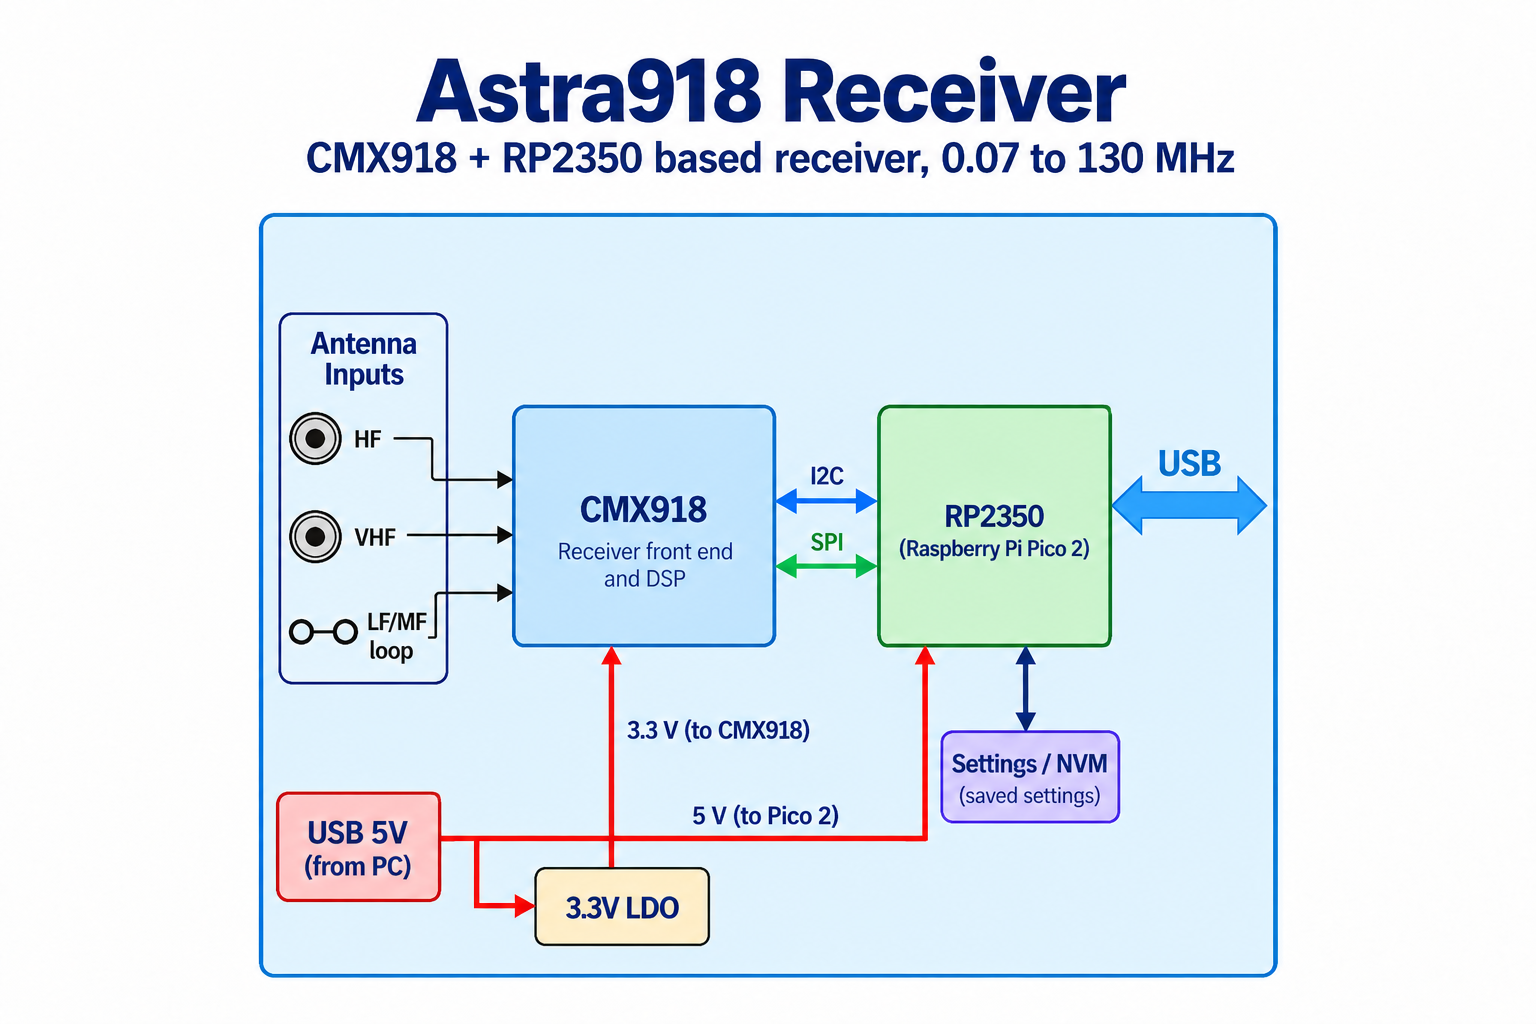
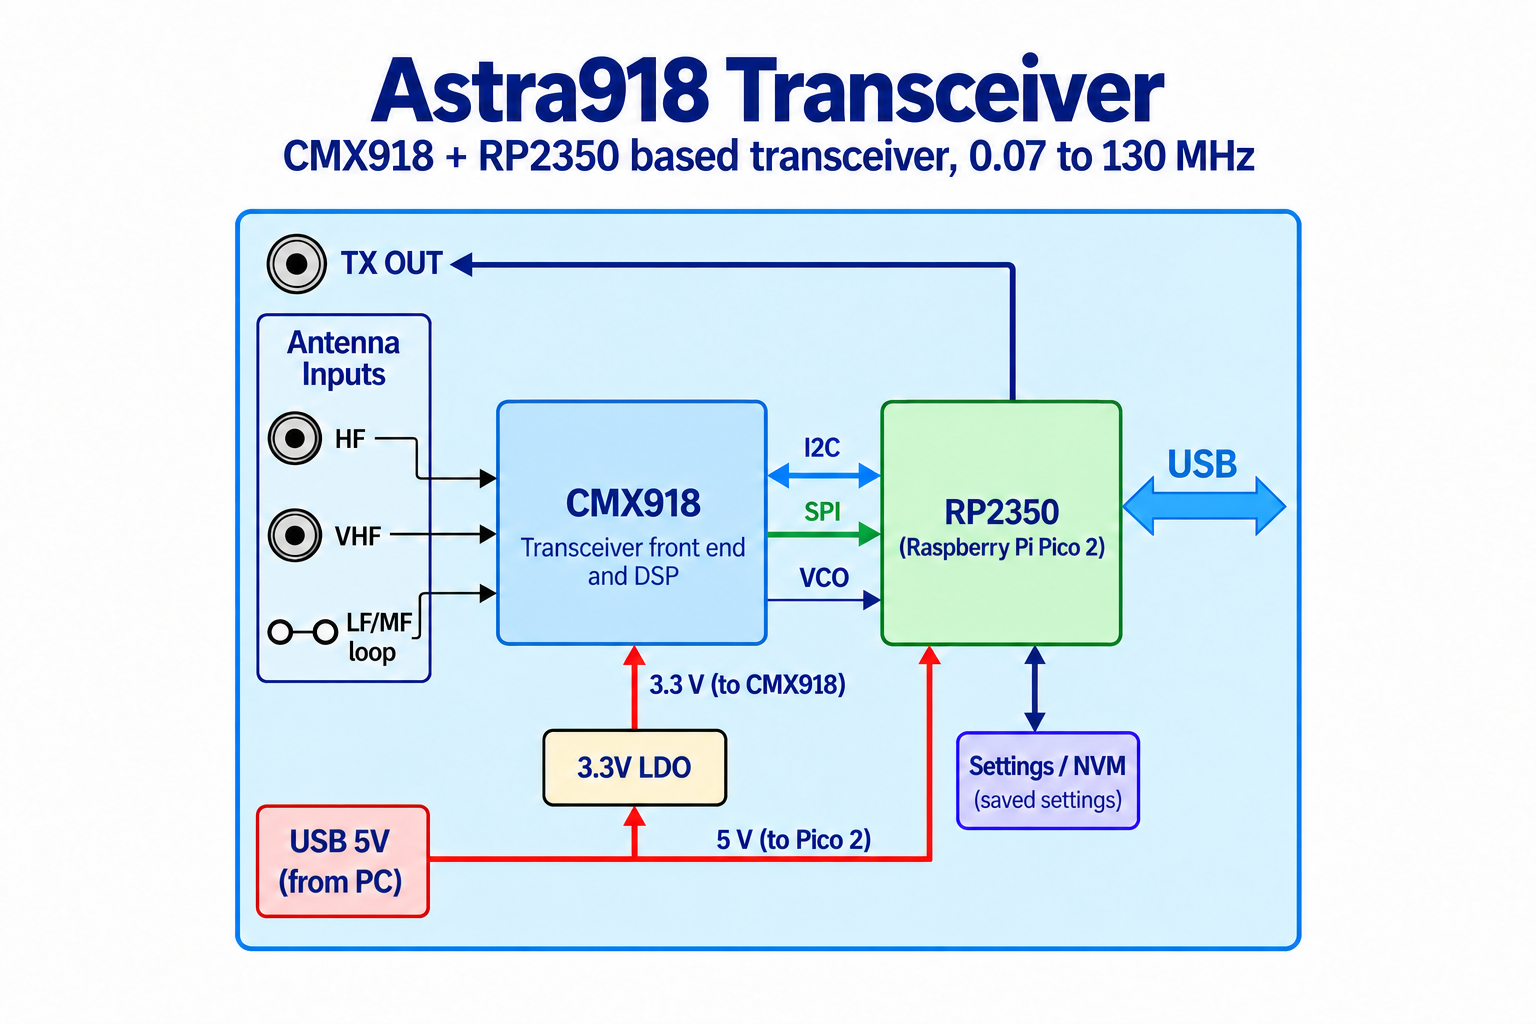
Describe Astra918 as a transceiver and document complete wiring

Changed region(s): [[0.125, 0.0312, 0.875, 0.9688]]

diff --git a/README.md b/README.md
@@ -1,14 +1,16 @@
-# Astra918
+# Astra918 transceiver
 
-RP2350 transceiver firmware combining CMX918 wideband I/Q with USB/LSB audio
-for WSJT-X. One USB connection exposes 12 kHz mono recording and playback,
+CMX918 + RP2350 (Raspberry Pi Pico 2) SDR transceiver firmware with wideband
+I/Q reception and audio-driven single-tone FSK transmission for applications
+such as WSJT-X. One USB connection exposes 12 kHz mono recording and playback,
 a Kenwood-style CAT serial port, and 120 ksps signed 16-bit complex samples.
 Use WSJT-X alongside either the SDR++ source or the Rust controller.
 
-Hardware and software connections for the project are discussed in the
-[EEVblog forum thread](https://www.eevblog.com/forum/rf-microwave/astra918-cmx918rp2350-based-receiver-0-07-to-130-mhz/).
+The [connection table](docs/TRX.md#connections) describes the CMX918/DRM-1000
+and Pico 2 wiring for reception and transmission. It matches the GPIO assignments
+in the [EEVblog hardware post](https://www.eevblog.com/forum/rf-microwave/astra918-cmx918rp2350-based-receiver-0-07-to-130-mhz/msg6368579/#msg6368579).
 
-![Astra918 receiver block diagram](images/astra918diagram.png)
+![Astra918 transceiver block diagram](images/astra918diagram.png)
 
 Keep these independent repositories adjacent:
 
@@ -17,8 +19,8 @@ astra918sdr/          firmware, shared state/DSP, simulator, CLI
 astra918sdr-gui/      Rust light-theme controls/status GUI
 ```
 
-The RP2350A firmware and both Linux applications have been tested with the
-physical receiver: on-air FT8, simultaneous SDR++/WSJT-X operation, bidirectional
+Receive-mode hardware checks with RP2350A firmware and both Linux applications
+cover on-air FT8 reception, simultaneous SDR++/WSJT-X operation, bidirectional
 tuning, controls, I/Q stall isolation, Save and incomplete-record recovery.
 Native Windows/macOS hardware checks remain pending. No frequency-generator
 tests are part of this project's acceptance procedure.
@@ -32,7 +34,7 @@ and offset +10,000 place the spectrum center at 14,064,000. CAT tuning to
 
 SDR++ Radio VFOs control local listening independently. Moving a VFO inside the
 waterfall leaves firmware audio untouched. Moving the waterfall center retunes
-the receiver and CAT dial while preserving the firmware audio offset. The GUI
+the transceiver and CAT dial while preserving the firmware audio offset. The GUI
 exposes this same spectrum-center tuning. Both applications' audio offset controls
 move the firmware channel and CAT dial inside the fixed RF spectrum using
 command 38. The complete USB/LSB passband must remain within that spectrum.
@@ -42,14 +44,14 @@ This center-based application update was compiled on Linux; runtime and hardware
 tests were not rerun, as requested. Earlier hardware reports describe the
 previous application tuning behavior.
 
-The receiver is authoritative. Clients read its current state when connecting;
+The transceiver is authoritative. Clients read its current state when connecting;
 they never restore an old frequency automatically. The entire USB/LSB audio
 passband must fit inside ±59.5 kHz. The 120 ksps spectrum has transition-band
 roll-off near its edges; this is not a promise of a flat 120 kHz RF passband.
-RF tuning limits are 70 kHz–130 MHz, subject to hardware qualification.
+Receive RF tuning limits are 70 kHz–130 MHz, subject to hardware qualification.
 
 Startup without saved settings is 14.2 MHz, USB, zero offset, 100–3500 Hz audio,
-AUTO input, RF/IF automatic gain. **Save to receiver** persists all current
+AUTO input, RF/IF automatic gain. **Save to transceiver** persists all current
 settings, including dial and offset. Ordinary edits never write flash. Saving
 briefly pauses reception; two alternating CRC-protected slots retain the older
 valid configuration if a write is interrupted.
@@ -58,7 +60,7 @@ valid configuration if a write is interrupted.
 
 Select Astra918's 12 kHz mono playback device in WSJT-X. Firmware tracks the
 audio tone and transmits at CAT dial plus the tone in USB or minus it in LSB.
-Enable transmit defaults on. The GUI exposes the RMS threshold, separate audio
+Enable transmit defaults on. The GUI exposes **Audio trigger level**, separate audio
 key/unkey delays, a 50 ms TX/RX relay delay and TX output configuration.
 Explicit Save persists these choices alongside the receiver and I/Q settings.
 
@@ -75,10 +77,10 @@ The combined integration has offline validation and RP2350A/B build coverage.
 Hardware qualification for the combined image is pending.
 The GUI's confirmed **Factory reset…** action erases both saved-settings slots
 and immediately restores the defaults above. It does not save a new record;
-**Save to receiver** is needed to persist later edits. The GUI keeps I/Q
+**Save to transceiver** is needed to persist later edits. The GUI keeps I/Q
 compensation controls visible but disables them if connected firmware does not
 advertise support. Flash matching firmware to enable them. The reset command was
-checked in the simulator; the destructive erase was not invoked on a receiver.
+checked in the simulator; the destructive erase was not invoked on a transceiver.
 
 ## I/Q compensation
 
@@ -111,7 +113,7 @@ The result appears in the status; the offline simulator reports calibration
 unavailable because it has no CMX918 pilot. This one-shot action is not saved.
 With automatic large-retune calibration off, a later RF reconfiguration clears
 the one-shot correction; run it again at the new tune if needed.
-The checkbox controls apply immediately; only **Save to receiver** writes them
+The checkbox controls apply immediately; only **Save to transceiver** writes them
 to flash. Calibration results themselves are not saved. On the connected RP2350A
 test board at 3.5 and 14.074 MHz, the manual command reported status 1 (complete),
 applied the CMX918's measured correction coefficients, turned off the pilot,
@@ -162,9 +164,9 @@ the default audio device. Its waterfall covers the generated 1500 Hz signal.
 
 Stop I/Q with the application's Play/Stop control, or `astra918ctl stop`,
 before reading or writing a register. The vendor interface permits one owner:
-close any SDR application holding the receiver before using these commands.
+close any SDR application holding the transceiver before using these commands.
 CAT and USB audio remain available while I/Q is stopped. With one connected
-receiver, the CLI and Python helpers select it automatically; use `--serial`
+transceiver, the CLI and Python helpers select it automatically; use `--serial`
 if several are connected.
 
 ```sh
@@ -183,7 +185,7 @@ an already built binary. Use `--simulator 127.0.0.1:7350` for offline practice.
 For CMX918 register `$07`, bit 1 enables the 19.2 MHz output on pin 8; bit 0
 selects crystal (`0`) or external TCXO (`1`). A raw write replaces the whole
 register byte, does not update saved settings, and may be overwritten by a
-later receiver reconfiguration. Pin 9 is not connected.
+later receiver reconfiguration. CMX918 pin 9 is unused in the documented wiring.
 
 ## Firmware images
 
@@ -215,7 +217,7 @@ must match their linker, clock and pin configuration.
 Pushing a `v*` tag builds and publishes this file. Other builds remain
 available as a ZIP artifact of the **Firmware UF2** workflow in GitHub Actions.
 
-## WSJT-X with the receiver
+## WSJT-X with the transceiver
 
 Select **Kenwood TS-480** or **Kenwood TS-570D**, its CDC serial port, 115200 baud, no handshake,
 PTT VOX, Split None, Poll 1 s, and Mode None (preserves the firmware mode chosen
@@ -224,7 +226,7 @@ Use the GUI's Enable transmit control to permit audio-triggered TX, then
 select a band in WSJT-X normally. See the [transceiver guide](docs/TRX.md).
 
 Use the OS audio mixer/device so WSJT-X’s 48 kHz capture request is resampled
-from the receiver’s 12 kHz UAC1 stream. On Linux use the PipeWire/PulseAudio
+from the transceiver’s 12 kHz UAC1 stream. On Linux use the PipeWire/PulseAudio
 source, rather than an ALSA `hw:` device that cannot resample. This physical
 path has been verified on Linux; native Windows/macOS checks remain pending.
 CAT setters acknowledge successful
@@ -237,5 +239,6 @@ retain their class drivers. If binding is needed, select **interface 4 only**.
 macOS uses its audio/CDC drivers and libusb for vendor access. Do not reset the
 whole USB configuration to connect a controller.
 
-Implementation details: [protocol](docs/PROTOCOL.md), [provenance](docs/PROVENANCE.md),
-[approved scope](docs/PLAN.md). Each host repository has its own build README.
+See the [USB protocol](docs/PROTOCOL.md) and
+[transceiver guide](docs/TRX.md) for implementation details.
+Each host repository has its own build README.

diff --git a/docs/TRX.md b/docs/TRX.md
@@ -12,14 +12,38 @@ single-tone FSK. Speech and simultaneous tones require a different modulator.
 
 ## Connections
 
-| RP2350 pin | Function |
-| --- | --- |
-| GP20 | CMX918 pin 8 LDIV input to the RP2350 clock divider |
-| GP21 | Normal divided RF output |
-| GP13 | Inverted RF output by default, selectable In-phase |
-| GP6 | External PTT, high during TX |
-| GP25 | Pico 2 onboard TX indicator |
-| GP2 | CMX918 RESETN, actively driven low then high |
+The current Pico 2 firmware uses the following connections. GPIO numbers refer
+to the RP2350 signals printed on the Pico 2 pinout. The DRM-1000 test-point
+assignments also appear in the
+[EEVblog hardware post](https://www.eevblog.com/forum/rf-microwave/astra918-cmx918rp2350-based-receiver-0-07-to-130-mhz/msg6368579/#msg6368579).
+
+| RP2350 pin | CMX918 / DRM-1000 connection | Function |
+| --- | --- | --- |
+| GP0 | CMX918 pin 17, SPI MOSI / I²C data, DRM-1000 TP4 | I²C SDA, bidirectional register control |
+| GP1 | CMX918 pin 18, SPI SCLK / I²C clock, DRM-1000 TP1 | I²C SCL, 400 kHz control clock |
+| GP8 | CMX918 pin 23, I2S_DATA / SDA, DRM-1000 TP11 | I/Q serial data input to Pico 2 |
+| GP9 | CMX918 pin 22, I2S_FRAME / CS, DRM-1000 TP10 | I/Q frame / SPI chip-select input to Pico 2 |
+| GP10 | CMX918 pin 24, I2S_SCLK, DRM-1000 TP9 | I/Q serial clock input to Pico 2 |
+| GP2 | CMX918 pin 14, RESETN | Chip reset, actively driven low then high |
+| GP20 | CMX918 pin 8, CLK_OUT / EXT_LO_IN | LDIV input to the RP2350 clock divider during TX |
+| GP21 | External RF circuit | Normal divided RF output |
+| GP13 | External RF circuit | Inverted RF output by default, selectable In-phase |
+| GP6 | External TX/RX relay or PTT circuit | PTT, high during TX |
+| GP25 | Pico 2 onboard LED | TX indicator |
+| GND | CMX918 / DRM-1000 GND and external circuit ground | Common ground |
+
+CMX918 controls the I/Q data clock and frame signals. Pico 2 captures these
+through PIO in SPI-slave format. Register control uses the separate I²C bus.
+
+For DRM-1000, hold the module's own processor RESET input low so its processor
+releases control of the CMX918. This is separate from CMX918 RESETN on pin 14,
+which connects to GP2. Feed the module's 3.3 V supply through a 3.3 V LDO whose
+input is Pico 2 VBUS (USB 5 V), as shown in the project block diagram.
+
+The CMX918-to-Pico clock link labelled VCO in the block diagram carries the
+L-divider output during transmission. The connections above match
+[main.rs](../firmware/src/main.rs), [capture.rs](../firmware/src/capture.rs)
+and [tx_output.rs](../firmware/src/tx_output.rs).
 
 GP13 and GP21 are low in RX. The output uses GPOUT0 with the GP20 input
 inverted. Differential mode inverts GP13 through its RP2350 OUTOVER field.
@@ -30,7 +54,7 @@ Both pins share the same clock divisor.
 | GUI control | Default | Range |
 | --- | --- | --- |
 | Enable transmit | Enabled | Enabled or disabled |
-| RMS trigger level | −40 dBFS | −60 to −6 dBFS |
+| Audio trigger level | −40 dBFS | −60 to −6 dBFS |
 | Audio key delay | 10 ms | 0–255 ms, minimum one 1 ms tick |
 | Audio unkey delay | 100 ms | 0–255 ms, minimum one 1 ms tick |
 | TX/RX Relay delay | 50 ms | 0–1000 ms |
